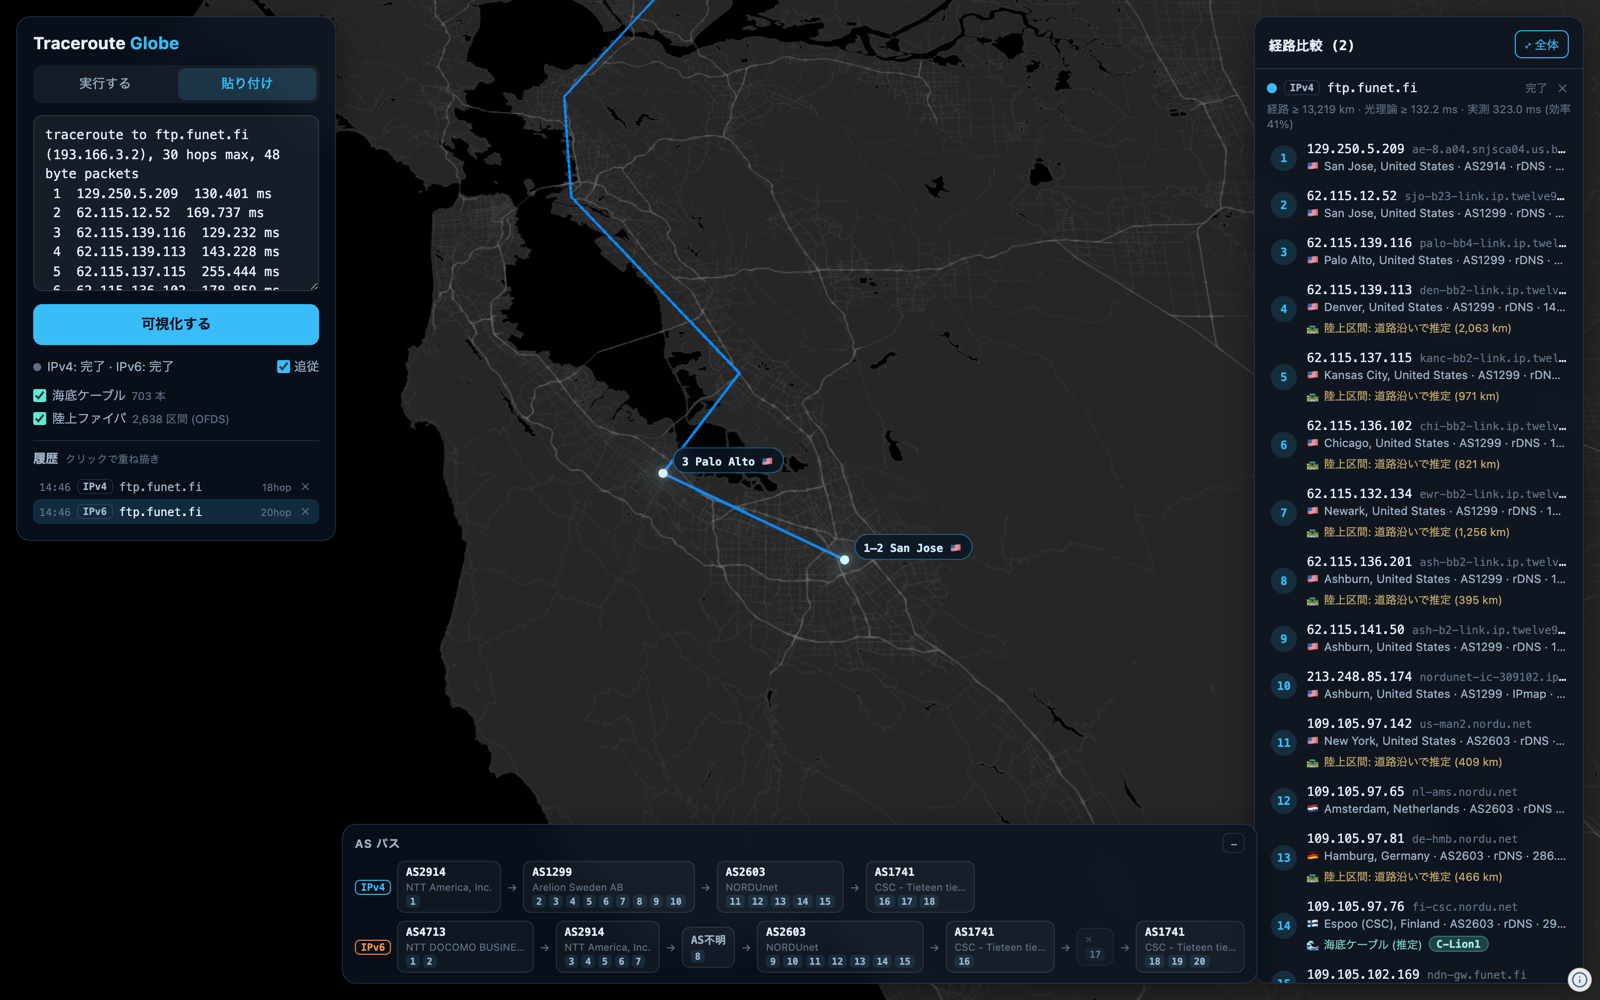
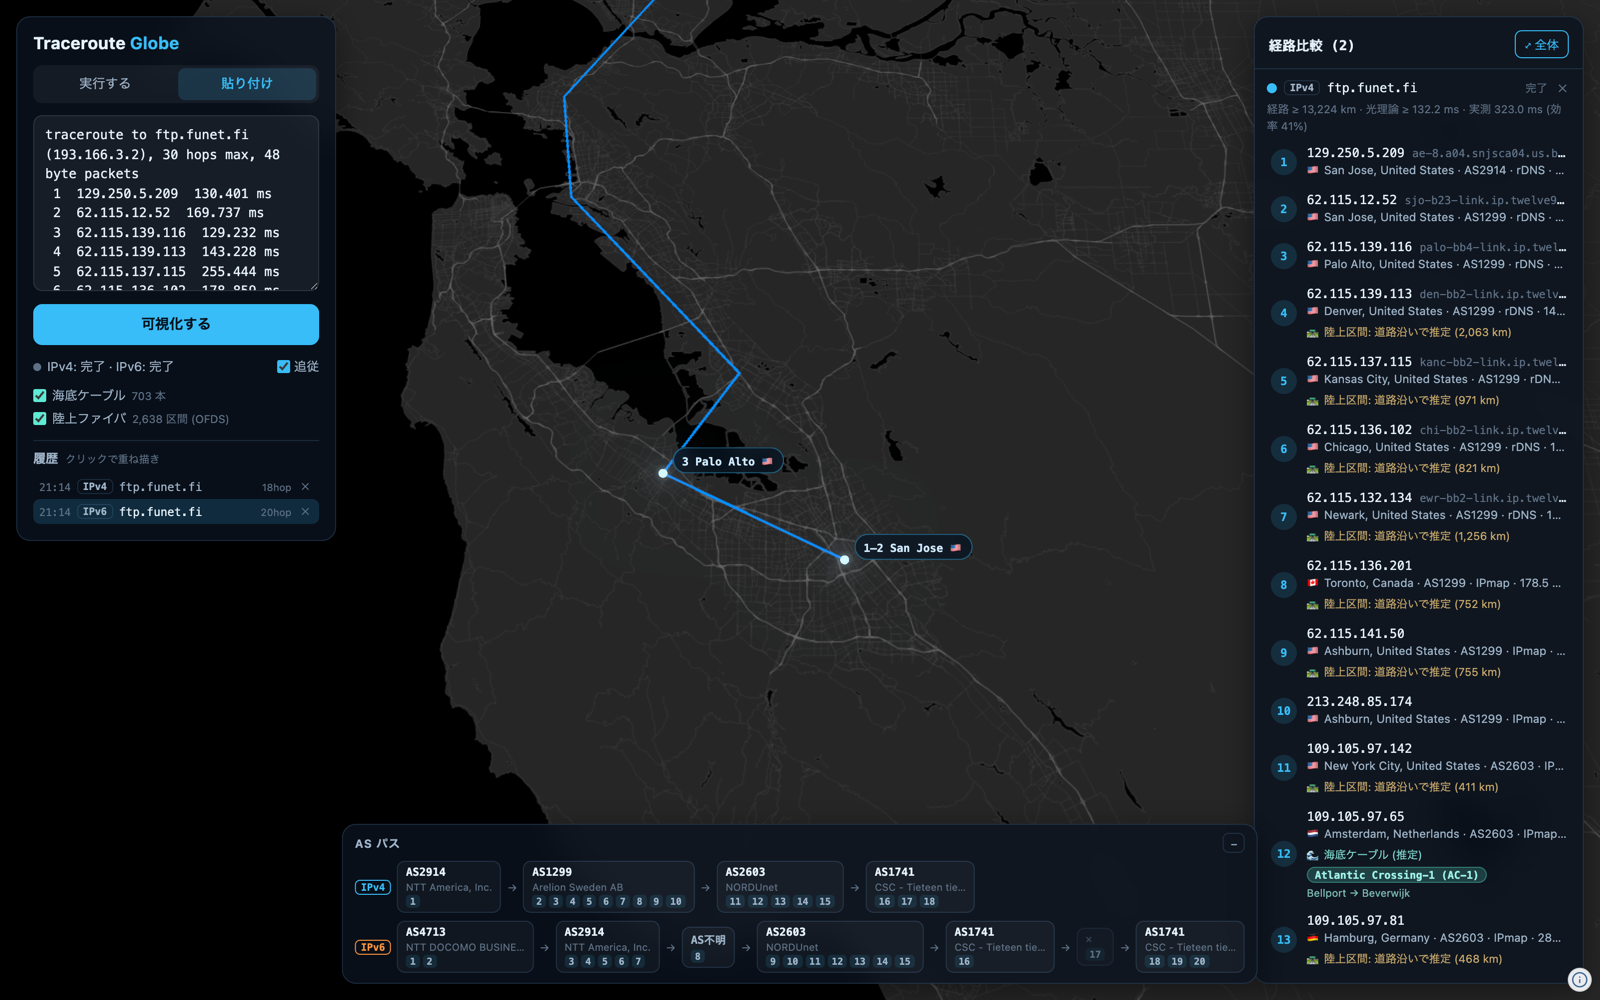
着陸点データで海底ケーブルの端点を扱い、リング型ケーブル (PC-1 等) を候補に
TeleGeography のケーブル線形はリング型 (PC-1 など) だと日付変更線で2分割され、
着陸点が線の途中の頂点にあるため「パーツ端点=着陸点」の前提では候補に
ならなかった。landing-point-geo.json (1,922 点) をサーバ経由で取得し、
各ケーブルの頂点から 3km 以内の着陸点を空間結合で紐付け (703 本すべてに付く)。
グラフでは着陸点を最寄り頂点にスナップして節点登録し、幹線の途中でも分割。

順位付け: RTT 差の重みを 1ms=100km → 10ms 余裕の上で 1ms=30km に下げ
(±20ms は普通に揺れる)、着陸点の近さを優先。ケーブル詳細 (所有者) を裏で
取得してホップの AS 名と一致すれば加点。ホップ一覧に最有力ケーブルの
着陸点 (Shima → Harbour Pointe) を表示、ツールチップに所有者。
大阪→シアトルは JUPITER (Cloverdale) から PC-1 (志摩→Harbour Pointe,
シアトルまで 31km) へ。

位置候補の DP: ソース信頼順のコストを 0/0.5/1.0 にし、ホスト名の明示的な
地名が RTT の揺れ 1 件で DB の当て推量に負けないようにした

Changed region(s): [[0.7812, 0.093, 0.9688, 0.992]]

diff --git a/src/cables.ts b/src/cables.ts
@@ -18,13 +18,21 @@ export interface CableCollection {
   features: CableFeature[];
 }
 
+export interface Landing {
+  id: string;
+  name: string; // 例: "Shima, Japan"
+  lat: number;
+  lng: number;
+}
+
 export interface CableInfo {
   id: string;
   name: string;
   color: string;
   label: { lng: number; lat: number };
-  /** 各ラインパーツの始点・終点 (= 着陸点かブランチ点) */
-  ends: { lat: number; lng: number }[];
+  /** 着陸点 (landing-point データとの空間結合)。見つからないケーブルはパーツ端点で代用 */
+  ends: Landing[];
+  landings: Landing[];
   features: CableFeature[];
 }
 
@@ -32,6 +40,9 @@ export interface CableCandidate {
   cable: CableInfo;
   landingA: number; // 区間の始点側ホップから最寄り着陸点までの距離 (m)
   landingB: number;
+  /** 区間の両端で使うと推定した着陸点 */
+  landingNameA: string;
+  landingNameB: string;
   score: number;
   /** ケーブル線形に沿った区間長 (m)。線形が辿れない場合は着陸点間の直線距離 */
   pathLen: number;
@@ -50,10 +61,61 @@ export interface CableDetail {
   landing_points?: { name: string; country: string }[];
 }
 
+interface LandingCollection {
+  type: "FeatureCollection";
+  features: Array<{
+    properties: { id: string; name: string };
+    geometry: { type: "Point"; coordinates: [number, number] };
+  }>;
+}
+
+/** 着陸点をケーブル線の頂点にこの距離以内で結び付ける (データ上はほぼ同一座標) */
+const LANDING_SNAP_M = 3_000;
+
 export async function loadCables(): Promise<{ geojson: CableCollection; cables: CableInfo[] }> {
-  const res = await fetch("/api/cables");
+  const [res, lres] = await Promise.all([fetch("/api/cables"), fetch("/api/cables/landing")]);
   if (!res.ok) throw new Error(`cables: HTTP ${res.status}`);
   const geojson = (await res.json()) as CableCollection;
+  // 着陸点は無くても動く (パーツ端点で代用) が、リング型ケーブルの着陸点は
+  // 線の途中の頂点なので、これが無いと PC-1 のようなケーブルが候補にならない
+  const landings: Landing[] = [];
+  if (lres.ok) {
+    const lgj = (await lres.json()) as LandingCollection;
+    for (const f of lgj.features ?? []) {
+      landings.push({
+        id: f.properties.id,
+        name: f.properties.name,
+        lng: f.geometry.coordinates[0],
+        lat: f.geometry.coordinates[1],
+      });
+    }
+  }
+  // 0.05° 格子で着陸点を索引し、各ケーブルの頂点から近い着陸点を集める
+  const grid = new Map<string, Landing[]>();
+  const gkey = (lng: number, lat: number) => `${Math.round(lng * 20)},${Math.round(lat * 20)}`;
+  for (const l of landings) {
+    const k = gkey(l.lng, l.lat);
+    (grid.get(k) ?? grid.set(k, []).get(k)!).push(l);
+  }
+  const landingsNear = (vertices: LngLat[]): Landing[] => {
+    const found = new Map<string, { l: Landing; d: number }>();
+    for (const v of vertices) {
+      const x = Math.round(v[0] * 20);
+      const y = Math.round(v[1] * 20);
+      for (let dx = -1; dx <= 1; dx++) {
+        for (let dy = -1; dy <= 1; dy++) {
+          for (const l of grid.get(`${x + dx},${y + dy}`) ?? []) {
+            const d = haversine(v[1], v[0], l.lat, l.lng);
+            if (d > LANDING_SNAP_M) continue;
+            const prev = found.get(l.id);
+            if (!prev || d < prev.d) found.set(l.id, { l, d });
+          }
+        }
+      }
+    }
+    return [...found.values()].map((x) => x.l);
+  };
+
   const byId = new Map<string, CableInfo>();
   for (const f of geojson.features) {
     const p = f.properties;
@@ -65,16 +127,30 @@ export async function loadCables(): Promise<{ geojson: CableCollection; cables: 
         color: p.color,
         label: { lng: p.coordinates[0], lat: p.coordinates[1] },
         ends: [],
+        landings: [],
         features: [],
       };
       byId.set(p.id, c);
     }
     c.features.push(f);
-    for (const part of f.geometry.coordinates) {
-      if (part.length === 0) continue;
-      const s = part[0];
-      const e = part[part.length - 1];
-      c.ends.push({ lng: s[0], lat: s[1] }, { lng: e[0], lat: e[1] });
+  }
+  for (const c of byId.values()) {
+    const vertices = c.features.flatMap((f) => f.geometry.coordinates.flat());
+    c.landings = landingsNear(vertices);
+    if (c.landings.length > 0) {
+      c.ends = c.landings;
+    } else {
+      for (const f of c.features) {
+        for (const part of f.geometry.coordinates) {
+          if (part.length === 0) continue;
+          const s = part[0];
+          const e = part[part.length - 1];
+          c.ends.push(
+            { id: `${c.id}:s`, name: c.name, lng: s[0], lat: s[1] },
+            { id: `${c.id}:e`, name: c.name, lng: e[0], lat: e[1] },
+          );
+        }
+      }
     }
   }
   return { geojson, cables: [...byId.values()] };
@@ -145,7 +221,23 @@ function cableGraph(cable: CableInfo): CableGraph {
       if (part.length >= 2) parts.push(part);
     }
   }
-  // まず全パーツの端点を節点として登録
+  // 着陸点を、ケーブル線上の最寄り頂点にスナップして節点登録する。リング型の
+  // ケーブル (PC-1 など) は着陸点が線の途中にあり、ここで登録しないと分割されない
+  for (const l of cable.landings) {
+    let bestV: LngLat | null = null;
+    let bestD = LANDING_SNAP_M;
+    for (const part of parts) {
+      for (const v of part) {
+        const d = haversine(l.lat, l.lng, v[1], v[0]);
+        if (d < bestD) {
+          bestD = d;
+          bestV = v;
+        }
+      }
+    }
+    if (bestV) nodeFor(bestV);
+  }
+  // 全パーツの端点も節点として登録
   for (const part of parts) {
     nodeFor(part[0]);
     nodeFor(part[part.length - 1]);
@@ -284,8 +376,8 @@ export function inferCables(
   for (const c of cables) {
     let bestA = Infinity;
     let bestB = Infinity;
-    let endA: { lat: number; lng: number } | null = null;
-    let endB: { lat: number; lng: number } | null = null;
+    let endA: Landing | null = null;
+    let endB: Landing | null = null;
     for (const e of c.ends) {
       const da = haversine(a.lat, a.lng, e.lat, e.lng);
       if (da < bestA) {
@@ -311,11 +403,23 @@ export function inferCables(
     // 光ファイバの往復 ≈ 10ms / 1000km
     const expectedMs = pathLen / 100_000;
     let score = bestA + bestB + Math.abs(span - legLen) * 0.3;
-    // RTT 差が測れていれば「線形長から期待される増分」との差を距離換算 (1ms ≈ 100km) で加える
+    // RTT 差が測れていれば「線形長から期待される増分」との差を加える。ただし RTT は
+    // キューイングや非対称経路で ±20ms は普通に揺れるので、10ms の余裕を引いた上で
+    // 1ms ≈ 30km の弱い重みにとどめる (着陸点の近さのほうが強い根拠)
     if (rttDeltaMs != null && rttDeltaMs > 0) {
-      score += Math.abs(rttDeltaMs - expectedMs) * 100_000;
+      score += Math.max(0, Math.abs(rttDeltaMs - expectedMs) - 10) * 30_000;
     }
-    out.push({ cable: c, landingA: bestA, landingB: bestB, score, pathLen, expectedMs, corePath: path });
+    out.push({
+      cable: c,
+      landingA: bestA,
+      landingB: bestB,
+      landingNameA: endA.name,
+      landingNameB: endB.name,
+      score,
+      pathLen,
+      expectedMs,
+      corePath: path,
+    });
   }
   out.sort((x, y) => x.score - y.score);
   return out.slice(0, 3);

diff --git a/src/main.ts b/src/main.ts
@@ -16,6 +16,7 @@ import {
   inferCables,
   loadCables,
   type CableCandidate,
+  type CableDetail,
   type CableInfo,
 } from "./cables";
 import { hostnameLocation } from "./hostname-geo";
@@ -63,6 +64,7 @@ let follow = true;
 let uiMessage: string | null = null; // 一時的な操作エラー等の表示 (renderStatus が描画)
 let cables: CableInfo[] = []; // 海底ケーブル (読み込み後)
 const cableInferCache = new Map<string, CableCandidate[]>(); // 区間キー → 推定結果
+const cableDetails = new Map<string, CableDetail | null | "pending">(); // ケーブル詳細 (所有者など)
 const legPathCache = new Map<string, [number, number][] | null>(); // 区間キー → ケーブル沿いの線形
 
 const globe = new Globe();
@@ -317,7 +319,10 @@ function resolveGeo(t: Trace): void {
   // IPmap > ip-api、僅差のタイブレーク) の合計が最小になる候補列を動的計画法で選ぶ。
   // 隣接ホップ同士を順に基準にする反復だと互いを基準に振動するため、列全体で解く
   const located = hops.map((_, i) => i).filter((i) => cands[i].length > 0 && hops[i].rtt != null);
-  const rank = (c: GeoCandidate) => (c.source === "hostname" ? 0 : c.source === "ipmap" ? 1 : 2);
+  // ソースの信頼順: ホスト名 (事業者自身の命名) > IPmap (実測) > ip-api (登録住所ベース)。
+  // RTT の揺れによる「違反1件」(コスト≈1) と同程度の差を付け、ホスト名の明示的な
+  // 地名が DB の当て推量に負けないようにする
+  const rankCost = (c: GeoCandidate) => (c.source === "hostname" ? 0 : c.source === "ipmap" ? 0.5 : 1.0);
   const originCost = (h: Hop, c: Pos) => {
     if (originOk(h, c)) return 0;
     const allowed = (h.rtt ?? 0) * KM_PER_MS * 1_000 * 1.15 + 50_000;
@@ -332,7 +337,7 @@ function resolveGeo(t: Trace): void {
   let prevIdx: number | null = null;
   for (const i of located) {
     const cs = cands[i];
-    const cost = cs.map((c) => rank(c) * 0.05 + originCost(hops[i], c));
+    const cost = cs.map((c) => rankCost(c) + originCost(hops[i], c));
     const prev = cs.map(() => -1);
     if (prevIdx !== null) {
       const pb = best.get(prevIdx)!;
@@ -425,6 +430,42 @@ function legKey(a: ChainNode, b: ChainNode): { key: string; rttDelta: number | n
   return { key: `${a.key}>${b.key}:${rttDelta == null ? "-" : Math.round(rttDelta)}`, rttDelta };
 }
 
+/** ホップの AS 名から事業者名のトークンを取り出す ("AS2914 NTT America, Inc." → "ntt") */
+function operatorTokens(n: ChainNode): string[] {
+  const out: string[] = [];
+  for (const h of n.hops) {
+    const as = h.geo?.as ?? "";
+    const m = as.match(/^AS\d+\s+([A-Za-z][A-Za-z0-9]+)/);
+    if (m) out.push(m[1].toLowerCase());
+  }
+  return out;
+}
+
+/** ケーブル詳細 (所有者) を裏で取得し、届いたら再描画する */
+function ensureCableDetails(ids: string[]): void {
+  for (const id of ids) {
+    if (cableDetails.has(id)) continue;
+    cableDetails.set(id, "pending");
+    void fetchCableDetail(id)
+      .then((d) => {
+        cableDetails.set(id, d);
+        if (traces.size > 0) {
+          renderAll();
+          updateGlobe();
+        }
+      })
+      .catch(() => cableDetails.set(id, null));
+  }
+}
+
+/** ケーブルの所有者に区間両端のホップの事業者が含まれていれば、そのケーブルを優先する */
+function ownerMatches(c: CableCandidate, tokens: string[]): boolean {
+  const d = cableDetails.get(c.cable.id);
+  if (!d || d === "pending" || !d.owners) return false;
+  const owners = d.owners.toLowerCase();
+  return tokens.some((t) => t.length >= 3 && owners.includes(t));
+}
+
 function candidatesFor(a: ChainNode, b: ChainNode): CableCandidate[] {
   const { key, rttDelta } = legKey(a, b);
   let cands = cableInferCache.get(key);
@@ -432,7 +473,13 @@ function candidatesFor(a: ChainNode, b: ChainNode): CableCandidate[] {
     cands = inferCables(a, b, cables, rttDelta);
     cableInferCache.set(key, cands);
   }
-  return cands;
+  if (cands.length === 0) return cands;
+  ensureCableDetails(cands.map((c) => c.cable.id));
+  // 所有者一致は強い根拠 (例: NTT のホップ → NTT 自社の PC-1) なので 1,500km 相当の加点
+  const tokens = [...operatorTokens(a), ...operatorTokens(b)];
+  return [...cands]
+    .map((c) => ({ ...c, score: c.score - (ownerMatches(c, tokens) ? 1_500_000 : 0) }))
+    .sort((x, y) => x.score - y.score);
 }
 
 /** 各区間の海底ケーブル推定。キーは区間の終点ノードの先頭ホップ TTL */
@@ -523,9 +570,9 @@ function legPathsFor(t: Trace): Map<string, [number, number][]> {
     let path: [number, number][] | null = null;
     let hasCable = false;
     if (cables.length > 0) {
-      const { key } = legKey(a, b);
       const cands = candidatesFor(a, b);
       hasCable = cands.length > 0;
+      const key = `${legKey(a, b).key}:${cands[0]?.cable.id ?? "-"}`;
       const cached = legPathCache.get(key);
       if (cached !== undefined) {
         path = cached;
@@ -571,6 +618,11 @@ function statsText(t: Trace, nodes: ChainNode[]): string {
     }
   }
   return parts.join(" · ");
+}
+
+/** "Shima, Japan" → "Shima" のように国名を落として短くする */
+function shortLanding(name: string): string {
+  return name.split(",")[0].trim();
 }
 
 function buildHopRow(
@@ -623,8 +675,11 @@ function buildHopRow(
         b.type = "button";
         b.className = "cable-name" + (i === 0 ? " best" : "");
         b.textContent = c.cable.name;
+        const detail = cableDetails.get(c.cable.id);
+        const owners = detail && detail !== "pending" && detail.owners ? ` · 所有: ${detail.owners}` : "";
         b.title =
-          `着陸点までの距離: ${Math.round(c.landingA / 1000)} km / ${Math.round(c.landingB / 1000)} km` +
+          `${c.landingNameA} → ${c.landingNameB}${owners}` +
+          ` · 着陸点までの距離: ${Math.round(c.landingA / 1000)} km / ${Math.round(c.landingB / 1000)} km` +
           ` · 線形 ${Math.round(c.pathLen / 1000).toLocaleString("ja-JP")} km (RTT 期待値 +${c.expectedMs.toFixed(0)} ms)`;
         b.addEventListener("click", (e) => {
           e.stopPropagation();
@@ -634,6 +689,12 @@ function buildHopRow(
         });
         hint.append(b);
       });
+      // 最有力候補の着陸点 (どこから海に出て、どこに上がるか) を明示する
+      const best = cableCands[0];
+      const landing = document.createElement("span");
+      landing.className = "cable-landing";
+      landing.textContent = `${shortLanding(best.landingNameA)} → ${shortLanding(best.landingNameB)}`;
+      hint.append(landing);
       main.append(hint);
     }
     if (roadKm != null) {

diff --git a/server/api.ts b/server/api.ts
@@ -535,6 +535,10 @@ function handleCables(req: IncomingMessage, res: ServerResponse): boolean {
     void proxyCableJson("cable/cable-geo.json", res);
     return true;
   }
+  if (path === "/api/cables/landing") {
+    void proxyCableJson("landing-point/landing-point-geo.json", res);
+    return true;
+  }
   const m = path.match(/^\/api\/cables\/([^/]+)$/);
   if (m && CABLE_ID_RE.test(m[1])) {
     void proxyCableJson(`cable/${m[1]}.json`, res);

diff --git a/src/style.css b/src/style.css
@@ -726,3 +726,9 @@ a.as-block:hover {
     max-width: calc(100vw - 32px);
   }
 }
+
+.cable-landing {
+  font-size: 10.5px;
+  color: #8fd6cd;
+  opacity: 0.85;
+}
